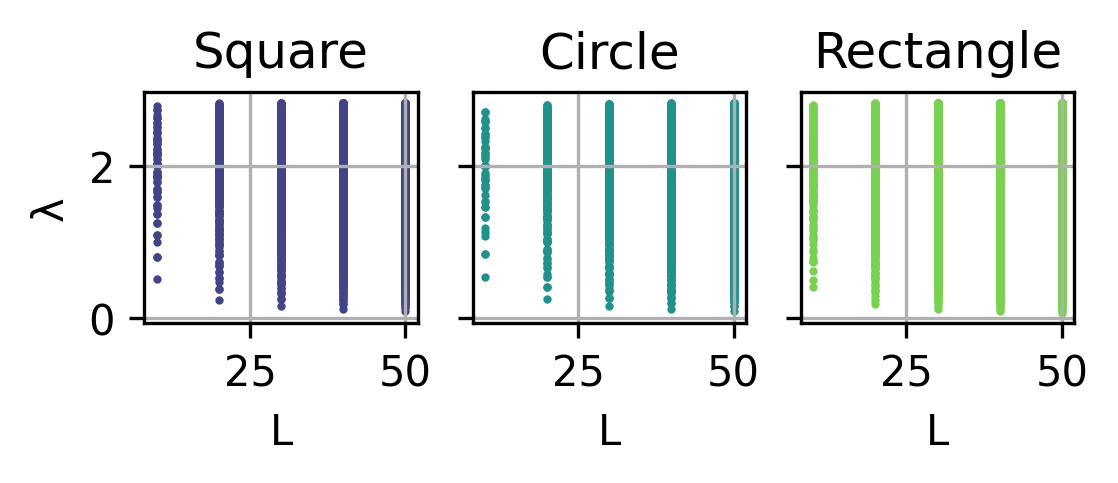
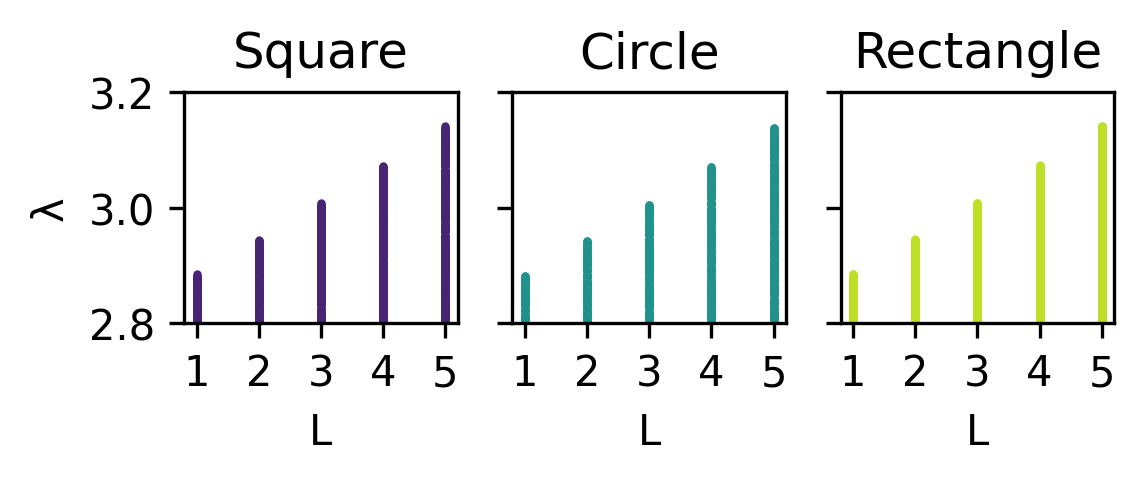
finished 3D plots and changed creating of matrices with L, N, and h

diff --git a/src/solutions/eigenmodes_part1.py b/src/solutions/eigenmodes_part1.py
@@ -1,7 +1,6 @@
 import numpy as np
 
-
-def create_init_matrix_a(N, rectangular=False):
+def create_init_matrix_a(L, N, rectangular=False):
     """
     Create an initial dependency matrix for an N x N grid.
 
@@ -16,11 +15,13 @@ def create_init_matrix_a(N, rectangular=False):
         matrix. Each row corresponds to a grid point, with the diagonal containing the
         adjusted dependency value and the neighboring positions (if applicable) set to 1.
     """
+    h = L / N - 1
+    M = N * N
     # initial matrix has (N*N)*(N*N) size, to capture all the dependencies
     if rectangular:
-        initial_matrix = np.zeros((2 * N * N, 2 * N * N))
+        initial_matrix = np.zeros((2 * M, 2 * M))
     else:
-        initial_matrix = np.zeros((N * N, N * N))
+        initial_matrix = np.zeros((M, M))
 
     for i, row in enumerate(initial_matrix):
         # booleans for skipping rows
@@ -45,12 +46,12 @@ def create_init_matrix_a(N, rectangular=False):
             ):
                 row[i] = 1
                 continue
-            row[i] = -waarde
+            row[i] = -waarde / (h**2)
 
-            row[i + 1] = 1
-            row[i - 1] = 1
-            row[i + 2 * N] = 1
-            row[i - 2 * N] = 1
+            row[i + 1] = 1 / (h**2)
+            row[i - 1] = 1 / (h**2)
+            row[i + 2 * N] = 1 / (h**2)
+            row[i - 2 * N] = 1 / (h**2)
         else:
             if (
                 row_index == 0
@@ -61,12 +62,12 @@ def create_init_matrix_a(N, rectangular=False):
                 row[i] = 1
                 continue
 
-            row[i] = -waarde
+            row[i] = -waarde / (h**2)
 
-            row[i + 1] = 1
-            row[i - 1] = 1
-            row[i + N] = 1
-            row[i - N] = 1
+            row[i + 1] = 1 / (h**2)
+            row[i - 1] = 1 / (h**2)
+            row[i + N] = 1 / (h**2)
+            row[i - N] = 1 / (h**2)
 
     return initial_matrix
 
@@ -105,8 +106,7 @@ def create_circle(N):
                 initial_circle[i, j] = -1
     return initial_circle
 
-
-def create_circle_dependency(N, initial_circle):
+def create_circle_dependency(L, N, initial_circle):
     """
     Create an initial dependency matrix for an N x N grid.
 
@@ -123,6 +123,7 @@ def create_circle_dependency(N, initial_circle):
     """
     # initial matrix has (N*N)*(N*N) size, to capture all the dependencies
     initial_matrix = np.zeros((N * N, N * N))
+    h = L / N - 1
 
     for i, row in enumerate(initial_matrix):
         row_index = int(i / N)
@@ -139,67 +140,10 @@ def create_circle_dependency(N, initial_circle):
         # if no neighbor point of border point or border point the diagonal value is 4
         waarde = 4
         # assign values for the dependencies
-        row[i] = -waarde
+        row[i] = -waarde / h**2
 
-        row[i + 1] = 1
-        row[i - 1] = 1
-        row[i + N] = 1
-        row[i - N] = 1
+        row[i + 1] = 1 / h**2
+        row[i - 1] = 1 / h**2
+        row[i + N] = 1 / h**2
+        row[i - N] = 1 / h**2
     return initial_matrix
-
-def T(t, A, B, c, λ):
-    """
-    Computes the time-dependent oscillation function based on sinusoidal motion.
-
-    Parameters:
-    - t (float): The current time step.
-    - A (float): Amplitude coefficient for the cosine term.
-    - B (float): Amplitude coefficient for the sine term.
-    - c (float): Scaling constant for oscillations.
-    - λ (float): Eigenvalue corresponding to the eigenmode.
-
-    Returns:
-    - float: The computed oscillation value at time t.
-    """
-    return A * np.cos(c * λ * t) + B * np.sin(c * λ * t)
-
-def init(lines):
-    """
-    Initializes the animation.
-
-    Parameters:
-    - lines (list): List of the eigenmodes.
-
-    Returns:
-    - list: The updated list of Line2D objects with cleared data.
-    """
-    for line in lines:
-        line.set_data([], [])
-    return lines
-
-def update(frame, t_values, lines, selected_eigenvalues, selected_eigenvectors, A, B, c, ax, N):
-    """
-    Update function for animation.
-
-    Parameters:
-    - frame (int): Current frame number.
-    - t_values (np.array): Array of time steps.
-    - lines (list): List of matplotlib line objects.
-    - selected_eigenvalues (np.array): Eigenvalues of the system.
-    - selected_eigenvectors (np.array): Eigenvectors of the system.
-    - A, B, c (float): Constants for oscillation.
-    - ax (matplotlib.axes.Axes): Axes object for updating title.
-    - N (int): Size of the matrix.
-    
-    Returns:
-    - Updated line objects.
-    """
-    t = t_values[frame]
-    for mode_idx, line in enumerate(lines):
-        λ = selected_eigenvalues[mode_idx]
-        eigenmode = selected_eigenvectors[:, mode_idx]
-        mode_shape = T(t, A, B, c, λ) * eigenmode
-        line.set_data(np.arange(N), mode_shape)
-    ax.set_title(f"Eigenmode Oscillations at t={t:.2f}")
-    return lines
-

diff --git a/src/visualizations.py b/src/visualizations.py
@@ -159,7 +159,7 @@ def eigenfrequencies_plot(sizes, eigenfrequencies_square, eigenfrequencies_circl
     """
     # Colours
     viridis = plt.cm.viridis
-    colors = [viridis(0.2), viridis(0.5), viridis(0.8)]
+    colors = [viridis(0.1), viridis(0.5), viridis(0.9)]
 
     # Create figure with 3 subplots
     fig, axes = plt.subplots(1, 3, figsize=(4, 1), sharey=True)
@@ -172,11 +172,11 @@ def eigenfrequencies_plot(sizes, eigenfrequencies_square, eigenfrequencies_circl
                 ax.scatter([N] * len(data[N]), data[N], color=color, s=1)
         ax.set_xlabel("L")
         ax.set_title(f"{shape}", fontsize=12, color="black")
-        ax.grid(True)
+        ax.set_xticks([1, 2, 3, 4, 5])
 
     axes[0].set_ylabel("λ")
 
-    plt.grid(True)
+    plt.ylim(2.8, 3.2)
     plt.savefig("plots/eigenfrequencies.png", dpi=300, bbox_inches="tight")
     plt.close(fig)
 
